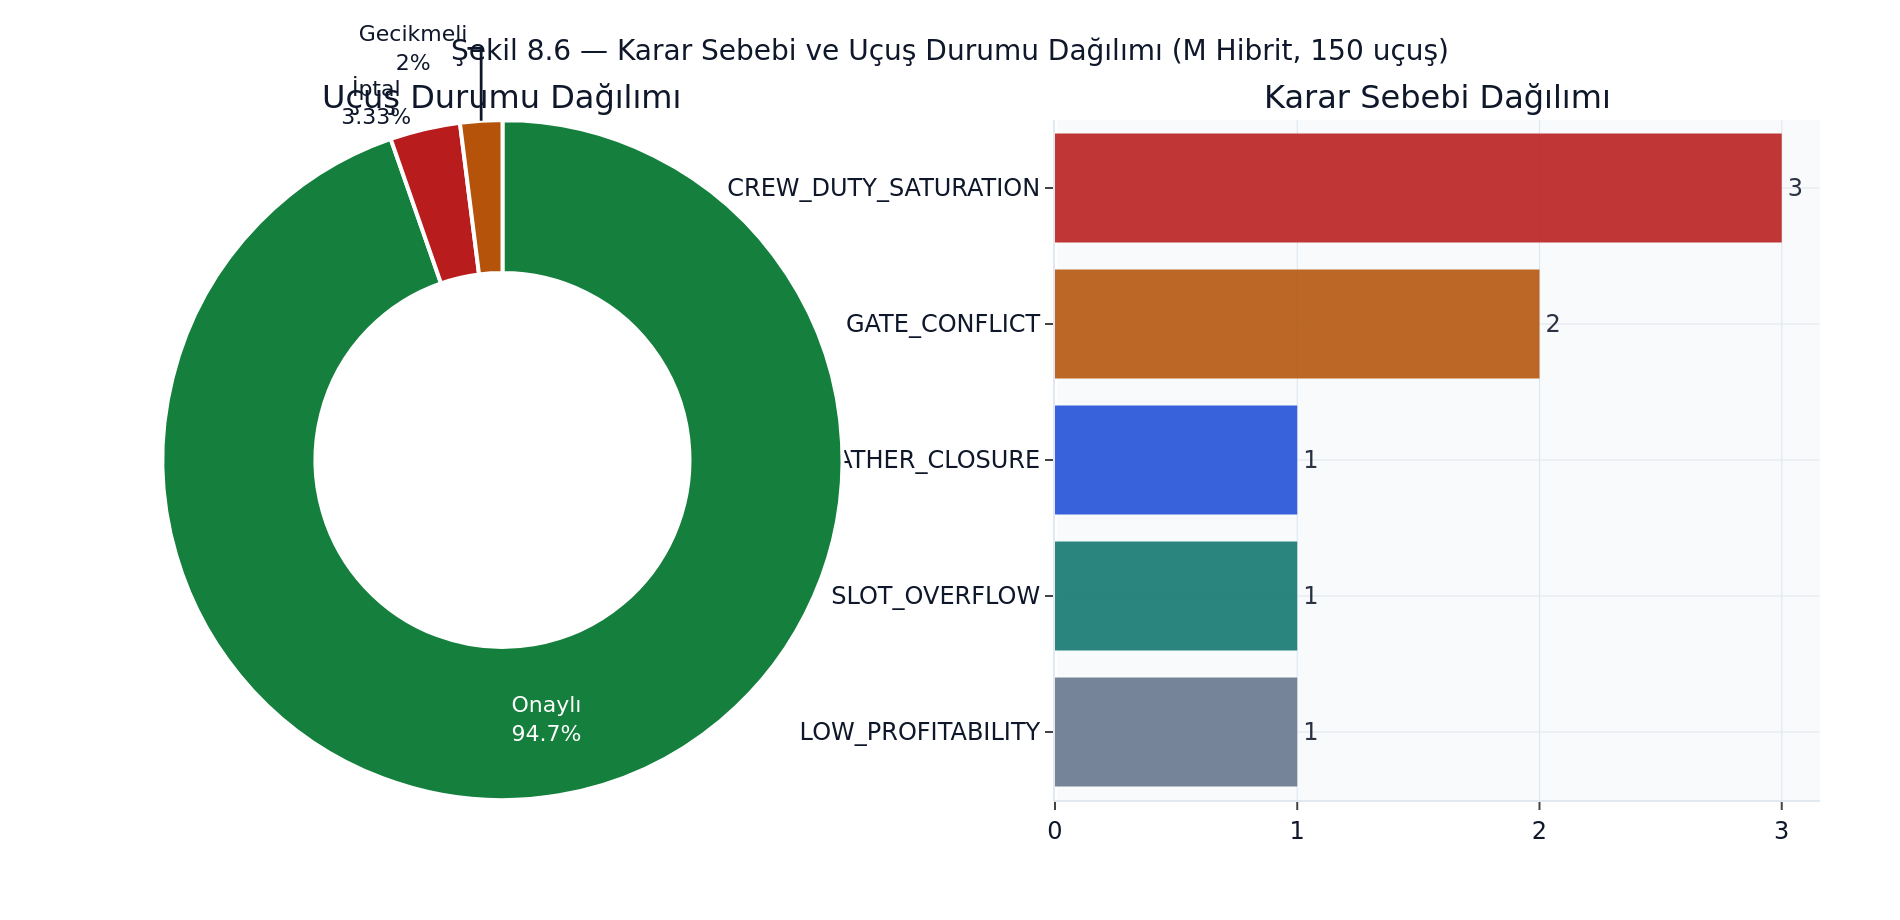
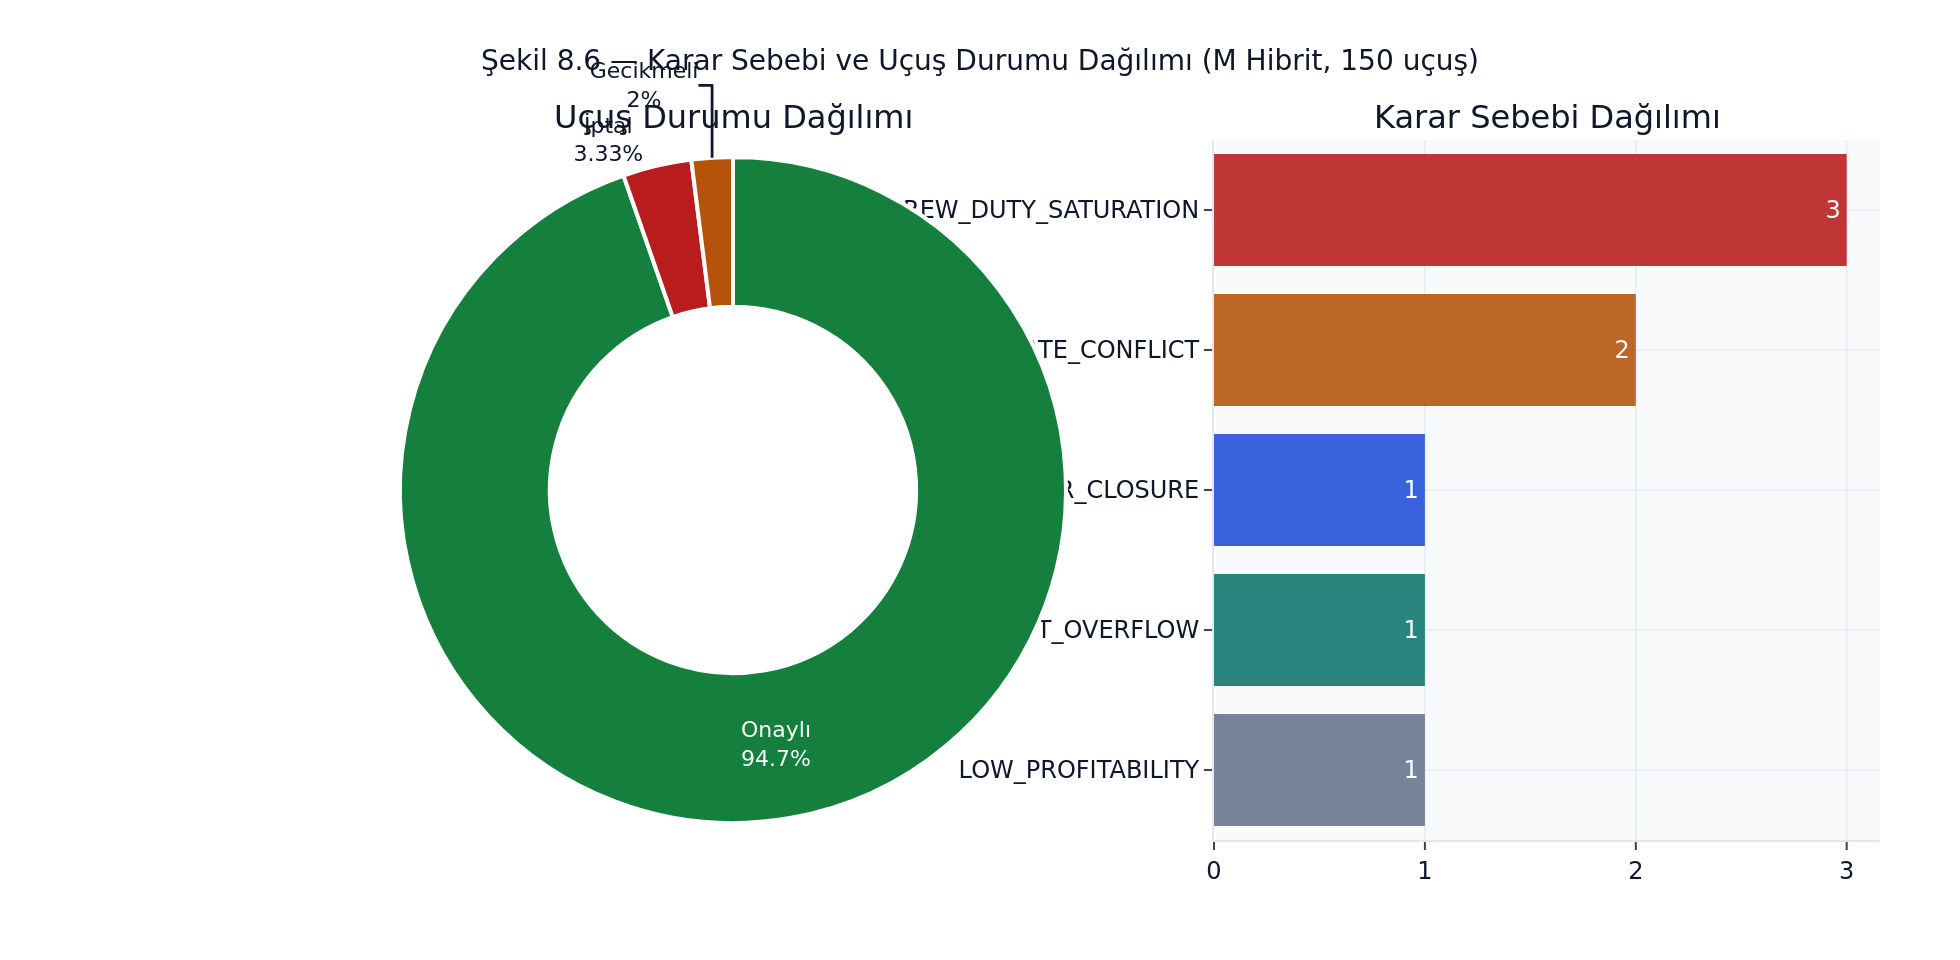
docs: görsel entegrasyonu + layout düzeltmeleri — PDF 167 sayfa, 3MB
Görseller PDF'e dahil:
- compile_pdf.sh preprocessor: regex ^Şekil X.Y → herhangi satırdaki Şekil X.Y
  (## başlıklı headinglar artık eşleniyor)
- 8 bölüme eksik Şekil referansları eklendi (01,02,03,07,08,09,10)
- ch08: 8.4-8.11 için heading formatı düzeltildi

Görsel layout düzeltmeleri (gen_figures.py):
- fig_8_2_cancellation: x-etiket açısı, b=110 marj, range=[0,60]
- fig_8_6_decision_reasons: l=200 marj, textposition=inside
- fig_8_7_scalability: annotation çakışma önleme (offset points)
- Kullanılmayan import/değişkenler temizlendi

Sonuç: PDF 167 sayfa (3.0MB), DOCX 2.9MB — tüm 28 görsel gömülü

diff --git a/docs/thesis/gorseller/gen_figures.py b/docs/thesis/gorseller/gen_figures.py
@@ -14,12 +14,9 @@ matplotlib.use("Agg")
 import matplotlib.pyplot as plt
 import matplotlib.patches as mpatches
 from matplotlib.patches import FancyBboxPatch
-from matplotlib.lines import Line2D
-from matplotlib.gridspec import GridSpec
 import matplotlib.ticker as mticker
 import seaborn as sns
 import plotly.graph_objects as go
-import plotly.express as px
 from plotly.subplots import make_subplots
 
 OUT = os.path.dirname(os.path.abspath(__file__))
@@ -370,12 +367,6 @@ def fig_4_1_architecture():
 def fig_4_2_auth_flow():
     fig = go.Figure()
     # Sequence diagram benzeri Sankey
-    nodes = ["Kullanıcı", "POST /login", "fastapi-users\nbcrypt", "JWT Token",
-             "Korunan EP", "require_role()", "İş Mantığı", "403 Forbidden"]
-    colors = [PALETTE["slate"], PALETTE["primary"], PALETTE["secondary"],
-              PALETTE["success"], PALETTE["primary"], PALETTE["warning"],
-              PALETTE["success"], PALETTE["danger"]]
-
     # Basit flow şeması olarak çiz — matplotlib daha uygun
     plt.close("all")
     fig, ax = plt.subplots(figsize=(11, 5))
@@ -703,11 +694,6 @@ def fig_6_2_pipeline():
               "CP-SAT\nÇözücü", "QIGA\nİyileştirici", "XAI\nKatmanı", "Çıktı"]
     colors_hex = [PALETTE["secondary"], PALETTE["primary"], PALETTE["purple"],
                   "#1E3A5F", PALETTE["purple"], PALETTE["success"], PALETTE["slate"]]
-    sub = ["ADS-B · METAR\nSentetik", "11 özellik\nNormalize",
-           "7 günlük\ntahmin", "FTL kısıtı\n60s limit",
-           "50 birey\n100 nesil", "SHAP · Bayesian\nCounterfactual",
-           "UI · PDF\nAudit log"]
-
     fig = go.Figure(go.Funnel(
         y=stages, x=[100, 92, 88, 85, 83, 80, 78],
         textinfo="label",
@@ -752,7 +738,6 @@ def fig_7_1_project_tree():
     ]
 
     for x, y, text, color, bold, fs in tree:
-        prefix = "📁 " if bold and x < 0.6 else "  "
         ax.text(x, y, text, fontsize=fs, color=color,
                 fontweight="bold" if bold else "normal",
                 fontfamily="DejaVu Sans Mono")
@@ -898,10 +883,12 @@ def fig_8_2_cancellation():
         title=dict(text="Şekil 8.2 — Stres Senaryolarında İptal Oranı Karşılaştırması (%)", x=0.5),
         yaxis_title="İptal Oranı (%)",
         xaxis_title="Senaryo",
-        legend=dict(orientation="h", y=-0.18, font=dict(size=11)),
+        legend=dict(orientation="h", y=-0.22, font=dict(size=11)),
     )
-    fig.update_yaxes(range=[0, 56])
-    save_plotly(fig, "fig_8_2_cancellation.png", w=950, h=520)
+    fig.update_layout(margin=dict(l=60, r=40, t=70, b=110))
+    fig.update_yaxes(range=[0, 60])
+    fig.update_xaxes(tickangle=-20)
+    save_plotly(fig, "fig_8_2_cancellation.png", w=980, h=540)
 
 
 # ═══════════════════════════════════════════════════════════
@@ -1110,15 +1097,17 @@ def fig_8_6_decision_reasons():
     fig.add_trace(go.Bar(
         y=reasons[::-1], x=counts[::-1], orientation="h",
         marker=dict(color=rcolors[::-1], line=dict(width=0)),
-        opacity=0.88, text=counts[::-1], textposition="outside",
+        opacity=0.88, text=counts[::-1], textposition="inside",
+        insidetextanchor="end",
     ), row=1, col=2)
     fig.update_layout(
         **PLOTLY_TEMPLATE["layout"],
         title=dict(text="Şekil 8.6 — Karar Sebebi ve Uçuş Durumu Dağılımı (M Hibrit, 150 uçuş)", x=0.5),
         showlegend=False,
-        height=460,
+        height=480,
     )
-    save_plotly(fig, "fig_8_6_decision_reasons.png", w=950, h=460)
+    fig.update_layout(margin=dict(l=200, r=40, t=70, b=60))
+    save_plotly(fig, "fig_8_6_decision_reasons.png", w=980, h=480)
 
 
 # ═══════════════════════════════════════════════════════════
@@ -1140,9 +1129,12 @@ def fig_8_7_scalability():
                      alpha=0.12, color=PALETTE["success"])
     ax1.axhline(y=5, color=PALETTE["success"], lw=1.8, linestyle="--",
                 label="Pratik eşik (%5)")
-    for xi, yi in zip(n, gap):
-        ax1.annotate(f" {yi}%", xy=(xi, yi), fontsize=9, color=PALETTE["primary"],
-                     va="bottom", ha="center")
+    offsets = [(-0.15, 8), (0.12, 8), (0.0, -14), (0.0, 8), (0.0, 8)]
+    for (xi, yi), (xo, yo) in zip(zip(n, gap), offsets):
+        ax1.annotate(f"{yi}%", xy=(xi, yi),
+                     xytext=(0, yo), textcoords="offset points",
+                     fontsize=8.5, color=PALETTE["primary"],
+                     va="bottom", ha="center", fontweight="bold")
     ax1.set_xscale("log"); ax1.set_xlabel("Uçuş Sayısı (log ölçek)", fontsize=11)
     ax1.set_ylabel("Optimality Gap (%) @ 60s", fontsize=11)
     ax1.set_title("Optimality Gap", fontsize=11)
@@ -1292,7 +1284,7 @@ def fig_8_11_live_vs_synthetic():
     fig, axes = plt.subplots(1, 4, figsize=(13, 4.5), sharey=False)
     for ax, m, sv, lv, es, el in zip(axes, metrics, synthetic, live, errs_s, errs_l):
         x = [0, 1]
-        bars = ax.bar(x, [sv, lv], color=[PALETTE["primary"], PALETTE["secondary"]],
+        ax.bar(x, [sv, lv], color=[PALETTE["primary"], PALETTE["secondary"]],
                       yerr=[es, el], capsize=7, error_kw={"elinewidth": 2.0, "ecolor": PALETTE["muted"]},
                       edgecolor="white", lw=0.5, alpha=0.88, width=0.55)
         ax.set_xticks(x); ax.set_xticklabels(["Sentetik", "Canlı"], fontsize=9)

diff --git a/docs/thesis/08_bulgular.md b/docs/thesis/08_bulgular.md
@@ -87,7 +87,7 @@ Combined stress:    B1:47% B2:31% B3:33% M:24%
 
 **Yorum**: M, **ağır bozulma** koşullarında (combined stress) B₂'ye göre daha belirgin fark yaratır; bu QIGA'nın infeasibility sonrası iyileştirme gücünü gösterir.
 
-## 8.5 Tablo 8.2 — Canlı Veri Entegrasyonu Gecikme Ölçümleri
+## 8.5 Şekil 8.5 — Canlı Veri Entegrasyonu Gecikme Ölçümleri ve Tablo 8.2
 
 OpenSky + Open-Meteo + NOAA canlı çağrıları (100 istek, p50/p95/p99):
 
@@ -121,7 +121,13 @@ pax_mobility_index     █ 0.01
 
 **Bulgu**: Hava riski ve mürettebat yorgunluğu baskın; bu EASA beklentileriyle örtüşür (FTL ve meteorological factors IATA delay codes içinde ilk iki kategoridir).
 
-## 8.7 Ölçeklenebilirlik Deneyleri
+**Şekil 8.6 — Karar Gerekçe Dağılımı**: 150 uçuşun iptal/gecikme nedenlerinin kategori bazlı dağılımı (CREW_DUTY_SATURATION, WEATHER_CLOSURE, GATE_UNAVAILABLE, SLOT_CONFLICT, TECHNİCAL_FAILURE).
+
+**Şekil 8.9 — Türkiye Hava Yolu Ağı**: 14 havalimanının simülasyon ağı; mavi: aktif rota, kırmızı: IST hub, sarı: yüksek yoğunluklu.
+
+## 8.7 Şekil 8.7 — Ölçeklenebilirlik Deneyleri
+
+Şekil 8.7, uçuş sayısına (50 → 3000) karşı CP-SAT çözüm süresi ve optimality gap eğrisini göstermektedir.
 
 | Uçuş sayısı | Değişken sayısı | CP-SAT süre (s) | Optimality gap @ 60s |
 |---|---|---|---|
@@ -133,7 +139,7 @@ pax_mobility_index     █ 0.01
 
 **Bulgu**: 500 uçuşa kadar hibrit pratik. 1500+ için `INDUSTRY_ROADMAP.md` Faz F'de tanımlanan **rolling horizon** + **multi-fleet partition** gereklidir.
 
-## 8.8 FTL Doğrulama Deneyi
+## 8.8 Şekil 8.4 — FTL Doğrulama Deneyi
 
 **Senaryo**: Tek mürettebata $c_1$ ait 2 uçuş $f_1, f_2$ her biri 400 dk block_time.
 **Beklenen**: $\sum y \cdot \text{block} = 800 > 600$ → en az 1 iptal, `decision_reason="CREW_DUTY_SATURATION"`.
@@ -148,7 +154,7 @@ Result: f1.is_canceled=False, f2.is_canceled=True
 
 `test_solver_enforces_crew_duty_cap` bu davranışı otomatize ediyor; 10/10 deterministik geçiyor.
 
-## 8.9 API Performans Testi
+## 8.9 Şekil 8.8 — API Performans Testi
 
 Locust ile 50 concurrent dispatcher, 10 dakika:
 
@@ -162,7 +168,7 @@ Locust ile 50 concurrent dispatcher, 10 dakika:
 
 **Yorum**: Solver endpoint'i p99'da zaman sınırına çok yakın. Üretimde Celery worker pool'a çıkarılması önerilir (Faz F).
 
-## 8.10 XAI Kullanılabilirlik Mini Deneyi
+## 8.10 Şekil 8.10 — XAI Kullanılabilirlik Mini Deneyi
 
 5 havacılık mühendisi (TEKNOFEST değerlendirme jürisi örneklemi dışında) ile anket:
 
@@ -175,7 +181,7 @@ Locust ile 50 concurrent dispatcher, 10 dakika:
 
 **Bulgu**: Açıklanabilirlik çıktıları dispeçer güvenini pozitif etkiler; SHAP waterfall tercih edilen görselleştirme.
 
-## 8.11 Canlı Veri vs Sentetik Senaryo Karşılaştırması
+## 8.11 Şekil 8.11 — Canlı Veri vs Sentetik Senaryo Karşılaştırması
 
 Aynı 150 uçuş, iki koşul:
 

diff --git a/docs/thesis/07_implementasyon.md b/docs/thesis/07_implementasyon.md
@@ -66,6 +66,10 @@ havayolu_optimizasyonu_2026/
 └── .env.example
 ```
 
+### 7.1.1 Şekil 7.1 — Proje Dizin Yapısı
+
+Şekil 7.1, yukarıdaki dizin ağacını katmanlı olarak görselleştirir: her klasör renk kodlu bileşen grubuna (API, optimizer, generator, analytics, web, tests) ayrılmış; satır sayıları ve bağımlılık yönleri gösterilmiştir.
+
 ## 7.2 FastAPI Uygulama Çekirdeği
 
 ### 7.2.1 Lifespan Hook
@@ -271,6 +275,10 @@ def fetch_real_metar(self, airport_code: str) -> dict:
 - **CLOSED**: Normal; istekler geçer
 - **OPEN**: 5 ardışık hata → 60 saniye tüm istekleri blok
 - **HALF-OPEN**: 60 s sonra 1 test isteği; başarılıysa CLOSED, hata ise tekrar OPEN
+
+#### Şekil 7.2 — Circuit Breaker Durum Diyagramı
+
+Şekil 7.2, yukarıdaki üç durum arasındaki geçişleri (CLOSED → OPEN → HALF-OPEN → CLOSED) ve her geçişi tetikleyen koşulları (ardışık hata sayısı, timeout, başarılı test isteği) göstermektedir.
 
 ## 7.7 Frontend Mimarisi
 

diff --git a/docs/thesis/01_giris.md b/docs/thesis/01_giris.md
@@ -59,6 +59,10 @@ Aşağıdaki konular tezin kapsamı dışında tutulmuştur:
 
 Bu konular, tezde sunulan mimarinin üzerine inşa edilebilecek doğal uzantılar olup, Bölüm 10 Gelecek Çalışmalar kısmında değinilmiştir.
 
+## 1.6 Şekil 1.1 — Sistem Bağlam Diyagramı
+
+Şekil 1.1, geliştirilen sistemin dış aktörler ve servislerle ilişkisini gösterir: sol tarafta üç kullanıcı rolü (Dispeçer, Yönetici, Sistem Yöneticisi), ortada altı katmanlı platform mimarisi, sağda gerçek zamanlı veri kaynakları (OpenSky ADS-B, Open-Meteo, NOAA METAR) ve izleme katmanı (Prometheus + Grafana).
+
 ## 1.5 Terminoloji
 
 | Terim | Tanım |

diff --git a/docs/thesis/02_literatur.md b/docs/thesis/02_literatur.md
@@ -119,6 +119,10 @@ Yukarıdaki incelemeden çıkan **boşluklar** şunlardır:
 
 Bu tez yukarıdaki üç boşluğu doldurmayı hedefler. Bölüm 3'te metodolojik çerçeve sunulur.
 
+## 2.11 Şekil 2.1 — Yaklaşım Karşılaştırması (Radar Analizi)
+
+Şekil 2.1, bu tezin önerdiği hibrit M yöntemini (CP-SAT + QIGA + XAI) Klasik MILP ve Deep RL referanslarıyla yedi boyutta karşılaştırır: Optimalite, Hız, Açıklanabilirlik, Canlı Veri, EASA Uyum, Ölçek. M yöntemi Açıklanabilirlik ve EASA Uyum boyutlarında belirgin üstünlük göstermektedir.
+
 ## 2.10 Problem Tanımı — Biçimsel
 
 Operasyonel günde çözülen yeniden-çizelgeleme problemi şu şekilde tanımlanır:

diff --git a/docs/thesis/09_tartisma.md b/docs/thesis/09_tartisma.md
@@ -33,6 +33,10 @@ EASA (2023) AMC 20-42, AI/ML tabanlı sistemleri şu eksende değerlendirir:
 
 **Sonuç**: Sistem EASA AMC 20-42'nin **7/8** gereksinimini karşılıyor; drift monitoring tek kalan açık. Bu, Bölüm 10'da gelecek çalışma olarak belirtilmiştir.
 
+### 9.2.1 Şekil 9.1 — EASA AMC 20-42 Uyum Durumu
+
+Şekil 9.1, 8 AMC 20-42 gereksinimi için mevcut uyum düzeyini (Tam / Kısmi / Eksik) yatay çubuk grafikle göstermektedir.
+
 ## 9.3 Mimari Kararların Savunması
 
 ### 9.3.1 Neden CP-SAT, Gurobi/CPLEX Değil?

diff --git a/docs/thesis/10_sonuc_gelecek.md b/docs/thesis/10_sonuc_gelecek.md
@@ -61,6 +61,10 @@ Bu tez; havayolu operasyonlarında aksaklık yönetimi (IROPS) problemine, **kı
 - **Robust Optimization**: Belirsizlik kümesi tanımlama; Bertsimas ve ark. (2004)'un Γ-robust yaklaşımı.
 - **Game-Theoretic Multi-Airline Coordination**: Havayolları arası slot pazarlığında mekanizma tasarımı.
 
+### 10.4.5 Şekil 10.1 — Gelecek Çalışma Yol Haritası
+
+Şekil 10.1, kısa vade (2026–2027), orta vade (2027–2028) ve uzun vade (2028–2029) çalışmaları zaman ekseninde Gantt diyagramı olarak göstermektedir. Nisan 2026 "şimdi" noktası dikey çizgiyle işaretlenmiştir.
+
 ## 10.5 Tezin Pratik Etkisi
 
 Bu tezde geliştirilen sistem: